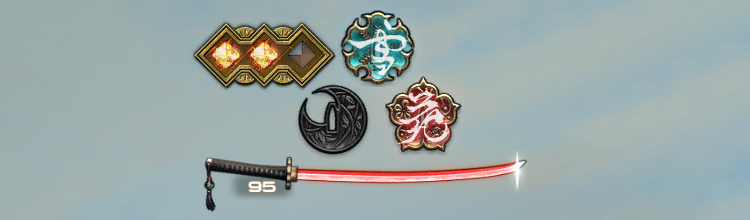
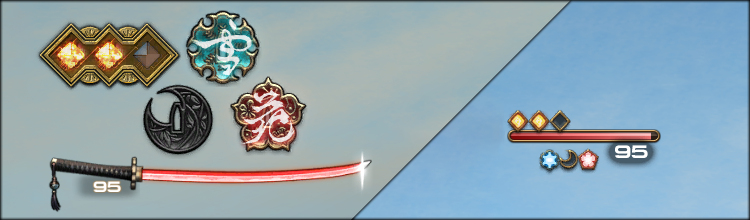
Add images, trigger

diff --git a/docs/meditate/index.html b/docs/meditate/index.html
@@ -13,13 +13,26 @@
 		<a href="../"><div class="title"><h1>dansa's Triggernometry things</h1></div></a>
 	</div>
 	<div class="content">
-        <h2>Hi (✿◕‿◕) </h2>
-        <h3>This repositry was made to share a few things I whipped up for Triggernometry.</h3>
+        <h3>The Dumb Meditation Tracker </h2>
+        <img src="../screens/aethergauge.png">
+        <h3>What it do?</h3>
 		<p class="ss">
-			<span>Since I don't feel like maintaining and orderly repository with lengthy settings files for everything and all that stuff, I will try to provide sufficient read-me's on this page in order to install and set up each suite/trigger.</span>
-		</p>
-		<p class="se">
-            <h3>Currently released Triggers/Suites</h3>
+			<span>The Meditation Tracker is quite self explanatory in the sense that it keeps track of your Meditation stacks in a better way than showing them in the buff bar.
+                <br>Currently the features implemented are
+                <br>- A visual gauge, either in the style of Aetherflow or in the style of a "simplified" gauge (see above).
+                <br>- An Audio que for reaching 3 stacks, the same audio que as is used once any job gauge is maxed out (such as kenki).
+                <br>- A Text-to-Speech callout when you gain stacks.
+                <br>- A Combo ring meant to be placed on the Shoha button on your hotbar that will display once you've reached 3 stacks. 
+                <br><img src="../screens/shoharing.png">
+                <br>These features can be disabled/modified individually so you can more or less get the setup you'd like.
+            </span>
+        </p>
+        <h3>How it install?</h3>
+		<p class="ss">
+            <span>
+                Installing triggers in Triggernometry is pretty straightforward. I am at this point assuming you have <a href="https://github.com/paissaheavyindustries/Triggernometry" title="Triggernometry">Triggernometry</a> installed.
+    
+            </span>
         </p>
             <p class="ss">
                 <span >The Dumb Monker Suite - <a href="" title="Read Me">Readme</a></span>
